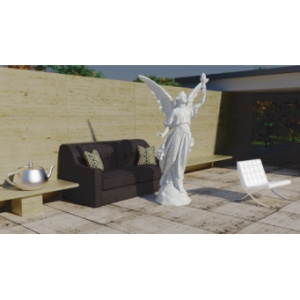
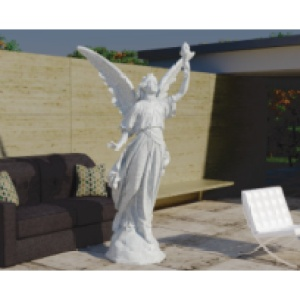
added compressed ismar 2025 poster paper

diff --git a/generate_thumbnails.py b/generate_thumbnails.py
@@ -42,7 +42,7 @@ cases = {
 			'rhee2020augmented':(2,((0.08,0.12),(0.25,0.25))),
 			'chalmers2020shadow':(2,((0.33,0.08),(0.1,0.1))),
 			'chalmers2020illumination':(3,((0.38,0.14),(0.17,0.17))),
-			'petikam2018visual':(6,((0.05,0.05),(0.14,0.24))),
+			'petikam2018visual':(6,((0.05,0.15),(0.12,0.12))),
 			'rhee2018mixed':(0,((0.3,0.15),(0.27,0.27))),
 			'rhee2018mr360':(0,((0.3,0.73),(0.14,0.14))),
 			'dean2018magic':(3,((0.65,0.12),(0.18,0.18))),
